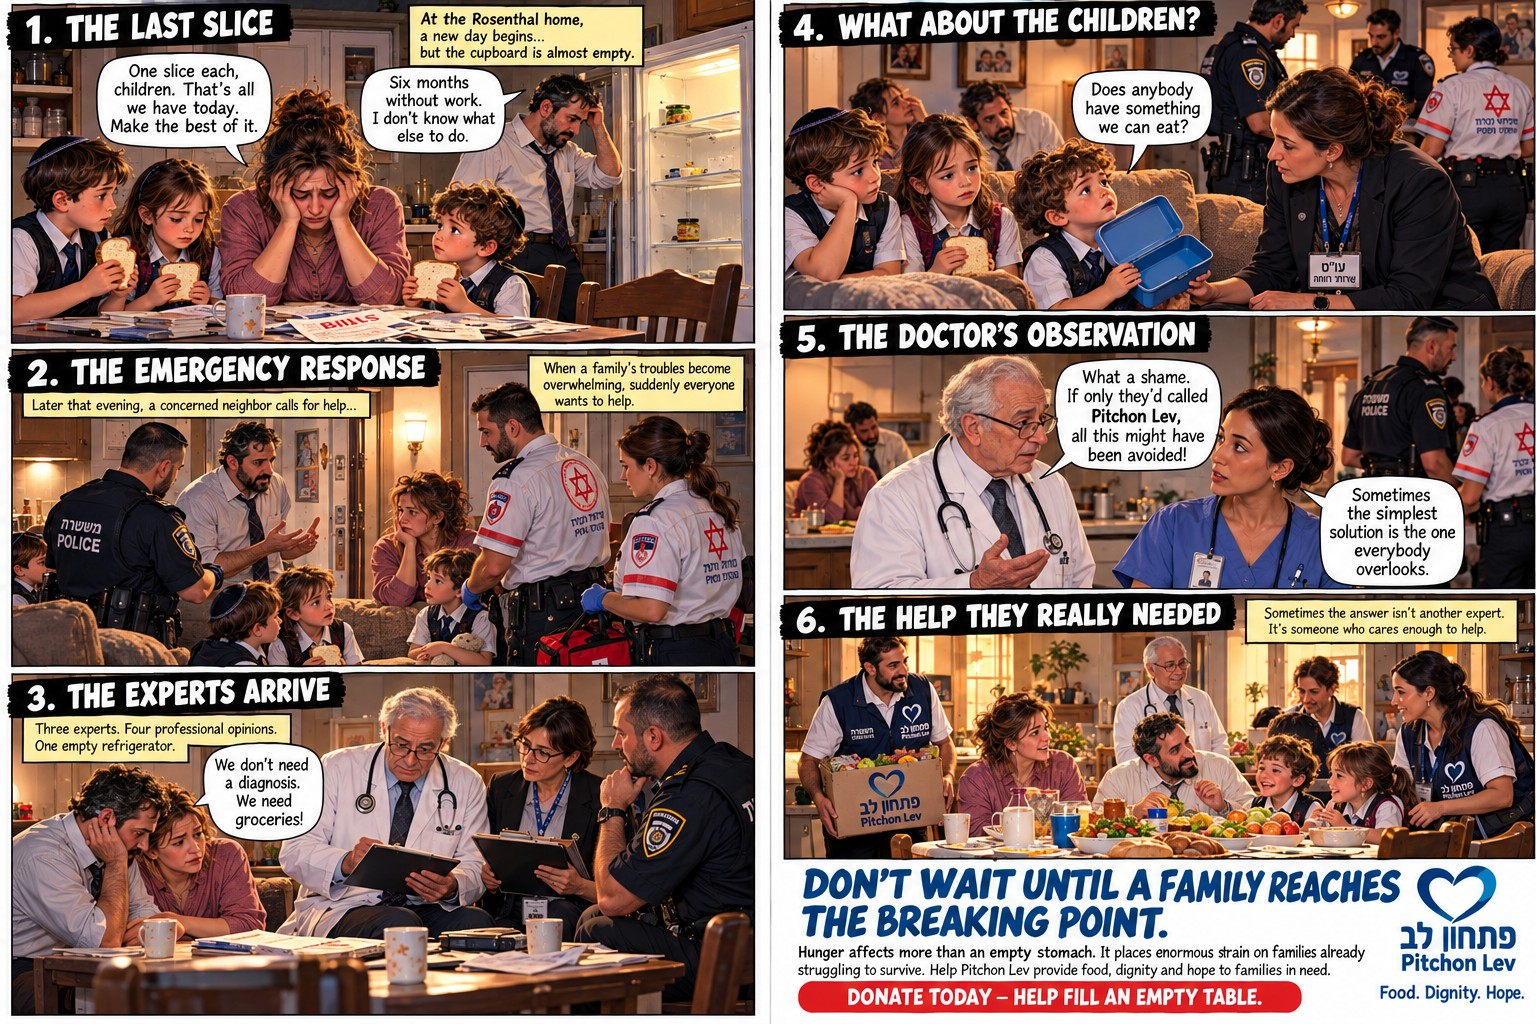
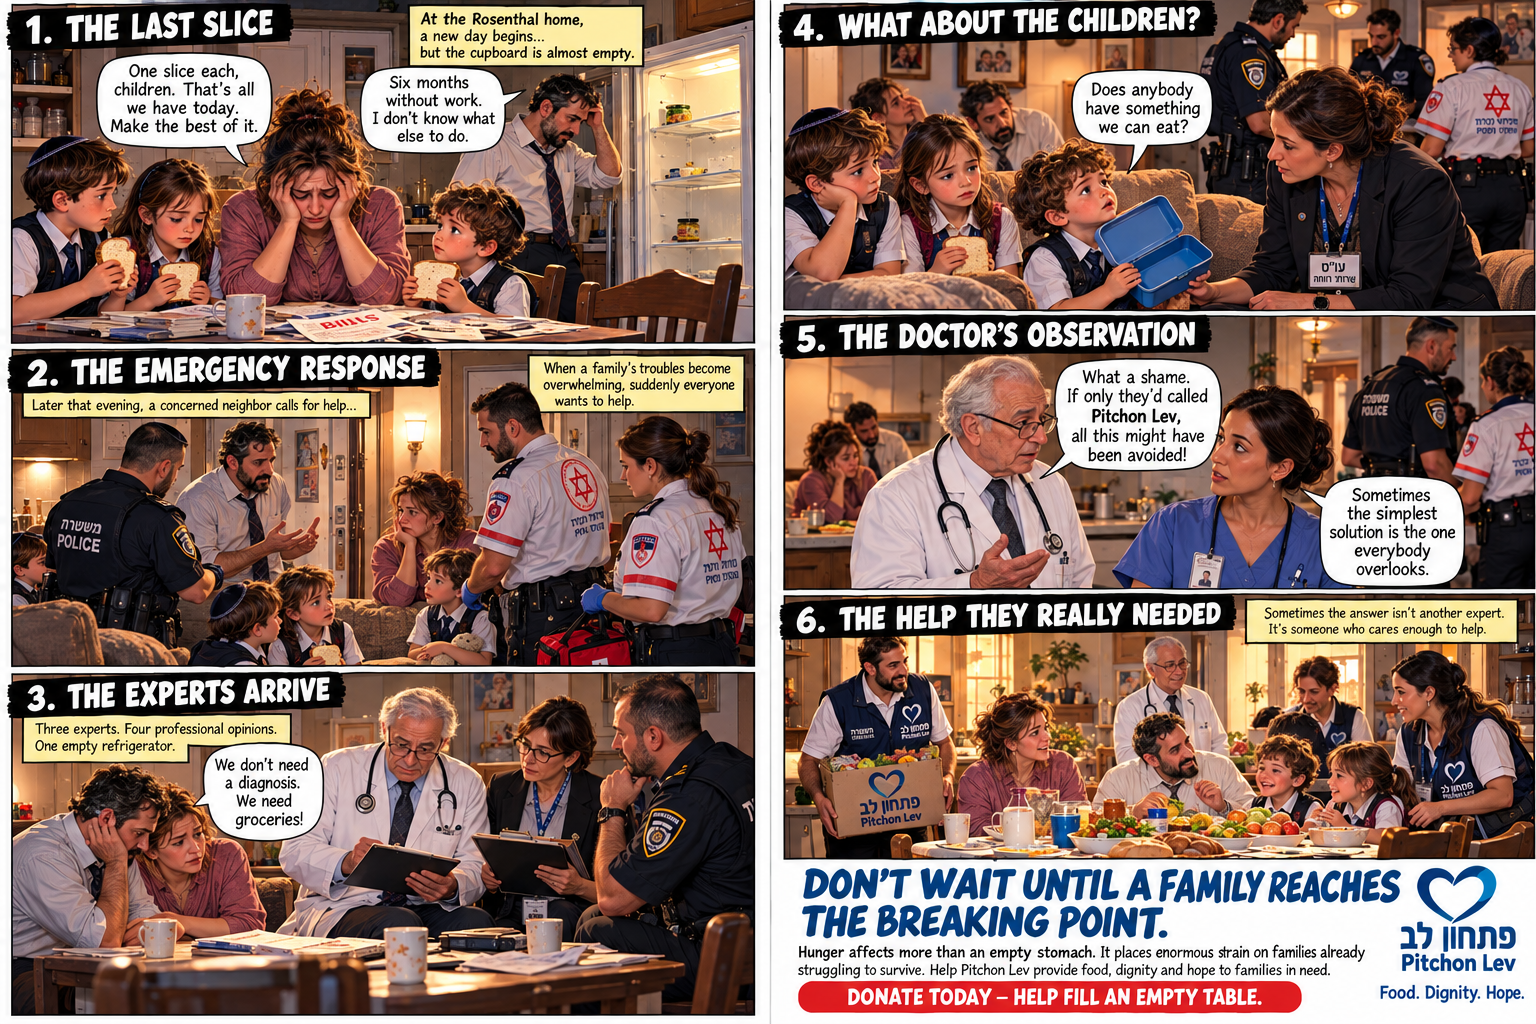
Publish remaining fundraising comics and Hooks in Eden services gallery

Changed region(s): [[0.6562, 0.9688, 0.8125, 1.0], [0.5938, 0.9688, 0.625, 1.0], [0.5625, 0.7812, 0.5938, 0.8125]]

diff --git a/fundraising-portfolio.html b/fundraising-portfolio.html
@@ -1,1 +1,1 @@
-<!doctype html><html lang="en"><head><meta charset="utf-8"><meta name="viewport" content="width=device-width,initial-scale=1"><title>Fundraising Portfolio — Andrew Abeles</title><link rel="stylesheet" href="sections.css"></head><body><header><nav aria-label="Portfolio navigation"><a href="index.html">Andrew Abeles · Portfolio</a><a href="fundraising-portfolio.html">Fundraising</a><a href="project_pages/educational-comics.html">Education</a><a href="biography.html">Biography</a><a href="testimonials.html">Testimonials</a></nav></header><main><div class="section-intro"><img src="assets/sections/fundraising.svg" alt=""><div><h1>Fundraising Portfolio</h1></div></div><div class="project-list"><a class="portfolio-item" href="assets/projects/united-hatzalah-saving-lives-sanctifying-gods-name.png"><img src="assets/projects/united-hatzalah-saving-lives-sanctifying-gods-name.png" alt="United Hatzalah — Saving Lives, Sanctifying God’s Name" loading="lazy"><strong>United Hatzalah — Saving Lives, Sanctifying God’s Name</strong><span>View project →</span></a><a class="portfolio-item" href="project_pages/carmei-hair.html"><img src="assets/thumbs/representative/carmei-hair-charity.jpg" alt="Carmei Hair" loading="lazy"><strong>Carmei Hair</strong><span>View project →</span></a><a class="portfolio-item" href="project_pages/tikva-layeled.html"><img src="assets/thumbs/representative/tikva-layeled-screen.jpg" alt="Tikva Layeled" loading="lazy"><strong>Tikva Layeled</strong><span>View project →</span></a><a class="portfolio-item" href="assets/projects/Lev_Malka.pdf"><img src="assets/thumbs/representative/lev-malka.jpg" alt="Lev Malka" loading="lazy"><strong>Lev Malka</strong><span>View project →</span></a><a class="portfolio-item" href="fundraising/pitchon-lev/rosenthal-weddings.png"><img src="fundraising/pitchon-lev/rosenthal-weddings.png" alt="Making It Through Another Day" loading="lazy"><strong>Making It Through Another Day</strong><span>View project →</span></a><a class="portfolio-item" href="fundraising/pitchon-lev/rosenthal-struggle.png"><img src="fundraising/pitchon-lev/rosenthal-struggle.png" alt="A Day of Struggle" loading="lazy"><strong>A Day of Struggle</strong><span>View project →</span></a><a class="portfolio-item" href="fundraising/pitchon-lev/rosenthal-emergency.png"><img src="fundraising/pitchon-lev/rosenthal-emergency.png" alt="The Help They Really Needed" loading="lazy"><strong>The Help They Really Needed</strong><span>View project →</span></a></div><p>Pitchon Lev comics are independent portfolio concepts, not commissioned or endorsed by Pitchon Lev.</p></main><footer><a href="mailto:nabeles666@gmail.com">Contact Andrew Abeles</a></footer></body></html>
+<!doctype html><html lang="en"><head><meta charset="utf-8"><meta name="viewport" content="width=device-width,initial-scale=1"><title>Fundraising Portfolio — Andrew Abeles</title><link rel="stylesheet" href="sections.css"></head><body><header><nav aria-label="Portfolio navigation"><a href="index.html">Andrew Abeles · Portfolio</a><a href="fundraising-portfolio.html">Fundraising</a><a href="project_pages/educational-comics.html">Education</a><a href="biography.html">Biography</a><a href="testimonials.html">Testimonials</a></nav></header><main><div class="section-intro"><img src="assets/sections/fundraising.svg" alt=""><div><h1>Fundraising Portfolio</h1></div></div><p><a href="gallery/fundraising/">View the four fundraising presentations and comics →</a></p><div class="project-list"><a class="portfolio-item" href="assets/projects/united-hatzalah-saving-lives-sanctifying-gods-name.png"><img src="assets/projects/united-hatzalah-saving-lives-sanctifying-gods-name.png" alt="United Hatzalah — Saving Lives, Sanctifying God’s Name" loading="lazy"><strong>United Hatzalah — Saving Lives, Sanctifying God’s Name</strong><span>View project →</span></a><a class="portfolio-item" href="project_pages/carmei-hair.html"><img src="assets/thumbs/representative/carmei-hair-charity.jpg" alt="Carmei Hair" loading="lazy"><strong>Carmei Hair</strong><span>View project →</span></a><a class="portfolio-item" href="project_pages/tikva-layeled.html"><img src="assets/thumbs/representative/tikva-layeled-screen.jpg" alt="Tikva Layeled" loading="lazy"><strong>Tikva Layeled</strong><span>View project →</span></a><a class="portfolio-item" href="assets/projects/Lev_Malka.pdf"><img src="assets/thumbs/representative/lev-malka.jpg" alt="Lev Malka" loading="lazy"><strong>Lev Malka</strong><span>View project →</span></a><a class="portfolio-item" href="fundraising/pitchon-lev/rosenthal-weddings.png"><img src="fundraising/pitchon-lev/rosenthal-weddings.png" alt="Making It Through Another Day" loading="lazy"><strong>Making It Through Another Day</strong><span>View project →</span></a><a class="portfolio-item" href="fundraising/pitchon-lev/rosenthal-struggle.png"><img src="fundraising/pitchon-lev/rosenthal-struggle.png" alt="A Day of Struggle" loading="lazy"><strong>A Day of Struggle</strong><span>View project →</span></a><a class="portfolio-item" href="fundraising/pitchon-lev/rosenthal-emergency.png"><img src="fundraising/pitchon-lev/rosenthal-emergency.png" alt="The Help They Really Needed" loading="lazy"><strong>The Help They Really Needed</strong><span>View project →</span></a><a class="portfolio-item" href="gallery/fundraising/#latet"><img src="assets/projects/latet-proposal.png" alt="Latet — Fundraising Proposal" loading="lazy"><strong>Latet — Fundraising Proposal</strong><span>View project →</span></a><a class="portfolio-item" href="gallery/fundraising/#save-a-childs-heart"><img src="assets/projects/save-a-childs-heart.png" alt="Save a Child’s Heart — Fundraising Proposal" loading="lazy"><strong>Save a Child’s Heart — Fundraising Proposal</strong><span>View project →</span></a><a class="portfolio-item" href="gallery/fundraising/#united-hatzalah-trilogy"><img src="assets/projects/united-hatzalah-trilogy.png" alt="United Hatzalah — Fundraising Comic Trilogy" loading="lazy"><strong>United Hatzalah — Fundraising Comic Trilogy</strong><span>View project →</span></a></div><p>Pitchon Lev comics are independent portfolio concepts, not commissioned or endorsed by Pitchon Lev.</p></main><footer><a href="mailto:nabeles666@gmail.com">Contact Andrew Abeles</a></footer></body></html>

diff --git a/index.html b/index.html
@@ -47,7 +47,7 @@
 <a class="section-card" href="humor-satire.html"><img alt="" src="assets/sections/humor.svg"/><strong>Humor and Satire</strong><span aria-hidden="true">→</span></a>
 <a class="section-card" href="stop-antisemitism.html"><img alt="" src="assets/sections/holocaust.svg"/><strong>Anti-Semitism and Holocaust</strong><span aria-hidden="true">→</span></a>
 <a class="section-card" href="testimonials.html"><img alt="" src="assets/sections/testimonials.svg"/><strong>Testimonials</strong><span aria-hidden="true">→</span></a>
-<a class="section-card" href="fundraising/#packages"><img alt="" src="assets/sections/services.svg"/><strong>Services</strong><span aria-hidden="true">→</span></a>
+<a class="section-card" href="gallery/services/"><img alt="" src="assets/sections/services.svg"/><strong>Services</strong><span aria-hidden="true">→</span></a>
 </nav><section aria-label="Experience and working style" class="working-summary"><article><img alt="" src="assets/sections/experience.svg"/><h2>Experience</h2><p>Decades of creating high-conversion advertising, fundraising and educational materials.</p></article><article><img alt="" src="assets/sections/expertise.svg"/><h2>Expertise</h2><p>Compelling copy, powerful visuals, strategic campaigns, storytelling and content development.</p></article><article><img alt="" src="assets/sections/comics.svg"/><h2>Selected Projects</h2><p>Comics, biographies, educational material, fundraising campaigns, websites, videos and newsletters.</p></article><article><img alt="" src="assets/sections/process.svg"/><h2>How I Work</h2><p>Listen. Understand. Create. Refine. Deliver—with a focus on your goals and your audience.</p></article><article><img alt="" src="assets/sections/services.svg"/><h2>Tools</h2><p>AI image generation, design, photo editing, video, audio, and decades of real-world marketing experience.</p></article><article><img alt="" src="assets/sections/seeking.svg"/><h2>Seeking</h2><p>Great people who appreciate the unique toolset I bring to the table: art, excellence and persuasion.</p></article></section><section aria-labelledby="selected-projects-title" class="selected-projects" id="portfolio">
 <div class="selected-heading-row">
 <h1 id="selected-projects-title"><span></span>Selected Projects<span></span></h1>
@@ -112,6 +112,22 @@
 <a class="selected-card" data-category="advertising company fundraising" href="project_pages/carmei-hair.html" id="project-carmei-hair">
 <img alt="Carmei Hair" src="assets/thumbs/representative/carmei-hair-charity.jpg"/>
 <strong>Carmei Hair</strong><em>View Project</em>
+</a>
+<a class="selected-card" data-category="fundraising comics" href="gallery/fundraising/#latet" id="project-latet">
+<img alt="Latet — Fundraising Proposal" src="assets/projects/latet-proposal.png"/>
+<strong>Latet — Fundraising Proposal</strong><em>View Full Project</em>
+</a>
+<a class="selected-card" data-category="fundraising comics" href="gallery/fundraising/#save-a-childs-heart" id="project-save-a-childs-heart">
+<img alt="Save a Child’s Heart — Fundraising Proposal" src="assets/projects/save-a-childs-heart.png"/>
+<strong>Save a Child’s Heart — Fundraising Proposal</strong><em>View Full Project</em>
+</a>
+<a class="selected-card" data-category="fundraising comics" href="gallery/fundraising/#united-hatzalah-trilogy" id="project-united-hatzalah-trilogy">
+<img alt="United Hatzalah — Fundraising Comic Trilogy" src="assets/projects/united-hatzalah-trilogy.png"/>
+<strong>United Hatzalah — Fundraising Comic Trilogy</strong><em>View Full Project</em>
+</a>
+<a class="selected-card" data-category="service advertising comics" href="gallery/services/#hooks-in-eden" id="project-hooks-in-eden">
+<img alt="Hooks in Eden — The Circumciser’s Call" src="assets/projects/hooks-in-eden.png"/>
+<strong>Hooks in Eden — The Circumciser’s Call</strong><em>View Full Project</em>
 </a>
 <a class="selected-card" data-category="fundraising comics" href="fundraising/pitchon-lev/" id="project-pitchon-lev">
 <img alt="Pitchon Lev — The Rosenthal Family: three fundraising comic concepts" src="fundraising/pitchon-lev/rosenthal-weddings.png"/>

diff --git a/gallery/fundraising/index.html b/gallery/fundraising/index.html
@@ -1,0 +1,11 @@
+<!doctype html>
+<html lang="en"><head><meta charset="utf-8"><meta name="viewport" content="width=device-width,initial-scale=1">
+<title>Fundraising Comics — Andrew Abeles</title><meta name="description" content="Four fundraising presentations and comic concepts by Andrew Abeles. Independent portfolio work; not commissioned or endorsed by the featured organizations.">
+<link rel="canonical" href="https://nabeles666-ui.github.io/andrew-abeles-portfolio/gallery/fundraising/">
+<link rel="stylesheet" href="../../sections.css">
+<style>article{margin:32px 0 52px;padding:clamp(12px,3vw,28px);background:white;border:1px solid #c5d3dd;border-radius:8px;scroll-margin-top:20px}article img{display:block;width:100%;height:auto}article h2{margin-top:0}.gallery-index{display:flex;flex-wrap:wrap;gap:10px 24px;padding-left:22px}.other-services{margin-top:40px}</style></head>
+<body><header><nav aria-label="Portfolio navigation"><a href="../../index.html">Andrew Abeles · Portfolio</a><a href="../../fundraising-portfolio.html">Fundraising</a><a href="../services/">Services</a><a href="../../fundraising/#packages">Campaign Packages</a></nav></header>
+<main><h1>Fundraising Comics</h1><p>Four fundraising presentations and comic concepts by Andrew Abeles. Independent portfolio work; not commissioned or endorsed by the featured organizations.</p>
+<ul class="gallery-index"><li><a href="#pitchon-lev">Pitchon Lev — From Empty Cupboards to Hope</a></li><li><a href="#latet">Latet — Fundraising Proposal</a></li><li><a href="#save-a-childs-heart">Save a Child’s Heart — Fundraising Proposal</a></li><li><a href="#united-hatzalah-trilogy">United Hatzalah — Fundraising Comic Trilogy</a></li></ul>
+<article id="pitchon-lev"><h2>Pitchon Lev — From Empty Cupboards to Hope</h2><p><a href="../../fundraising/pitchon-lev/rosenthal-emergency.png">Open full-resolution image →</a></p><a href="../../fundraising/pitchon-lev/rosenthal-emergency.png" aria-label="Open Pitchon Lev — From Empty Cupboards to Hope at full resolution"><img src="../../fundraising/pitchon-lev/rosenthal-emergency.png" alt="Six-panel fundraising comic showing the Rosenthal family’s food emergency and timely help." width="1536" height="1024" loading="lazy"></a></article><article id="latet"><h2>Latet — Fundraising Proposal</h2><p><a href="../../assets/projects/latet-proposal.png">Open full-resolution image →</a></p><a href="../../assets/projects/latet-proposal.png" aria-label="Open Latet — Fundraising Proposal at full resolution"><img src="../../assets/projects/latet-proposal.png" alt="Three-part Latet presentation with a cover letter, Everybody Out sales comic, and fundraising sample." width="1536" height="1024" loading="lazy"></a></article><article id="save-a-childs-heart"><h2>Save a Child’s Heart — Fundraising Proposal</h2><p><a href="../../assets/projects/save-a-childs-heart.png">Open full-resolution image →</a></p><a href="../../assets/projects/save-a-childs-heart.png" aria-label="Open Save a Child’s Heart — Fundraising Proposal at full resolution"><img src="../../assets/projects/save-a-childs-heart.png" alt="Three-part Save a Child’s Heart presentation with a cover letter, sales comic, and fundraising sample." width="1536" height="1024" loading="lazy"></a></article><article id="united-hatzalah-trilogy"><h2>United Hatzalah — Fundraising Comic Trilogy</h2><p><a href="../../assets/projects/united-hatzalah-trilogy.png">Open full-resolution image →</a></p><a href="../../assets/projects/united-hatzalah-trilogy.png" aria-label="Open United Hatzalah — Fundraising Comic Trilogy at full resolution"><img src="../../assets/projects/united-hatzalah-trilogy.png" alt="Three-part United Hatzalah presentation with a cover letter, sales comic, and fundraising sample." width="1536" height="1024" loading="lazy"></a></article>
+</main><footer><a href="mailto:nabeles666@gmail.com">Contact Andrew Abeles</a> · <a href="../../index.html">Back to Portfolio</a></footer></body></html>

diff --git a/gallery/services/index.html b/gallery/services/index.html
@@ -1,0 +1,11 @@
+<!doctype html>
+<html lang="en"><head><meta charset="utf-8"><meta name="viewport" content="width=device-width,initial-scale=1">
+<title>Services Comics — Andrew Abeles</title><meta name="description" content="Service advertising and visual storytelling by Andrew Abeles.">
+<link rel="canonical" href="https://nabeles666-ui.github.io/andrew-abeles-portfolio/gallery/services/">
+<link rel="stylesheet" href="../../sections.css">
+<style>article{margin:32px 0 52px;padding:clamp(12px,3vw,28px);background:white;border:1px solid #c5d3dd;border-radius:8px;scroll-margin-top:20px}article img{display:block;width:100%;height:auto}article h2{margin-top:0}.gallery-index{display:flex;flex-wrap:wrap;gap:10px 24px;padding-left:22px}.other-services{margin-top:40px}</style></head>
+<body><header><nav aria-label="Portfolio navigation"><a href="../../index.html">Andrew Abeles · Portfolio</a><a href="../../fundraising-portfolio.html">Fundraising</a><a href="../services/">Services</a><a href="../../fundraising/#packages">Campaign Packages</a></nav></header>
+<main><h1>Services Comics</h1><p>Service advertising and visual storytelling by Andrew Abeles.</p>
+<ul class="gallery-index"><li><a href="#hooks-in-eden">Hooks in Eden — The Circumciser’s Call</a></li></ul>
+<article id="hooks-in-eden"><h2>Hooks in Eden — The Circumciser’s Call</h2><p><a href="../../assets/projects/hooks-in-eden.png">Open full-resolution image →</a></p><a href="../../assets/projects/hooks-in-eden.png" aria-label="Open Hooks in Eden — The Circumciser’s Call at full resolution"><img src="../../assets/projects/hooks-in-eden.png" alt="Illustrated Eden and modern temptations comic ending with the call to the circumciser." width="1024" height="1536" loading="lazy"></a></article>
+<section class="other-services"><h2>Explore more services</h2><p><a href="../../fundraising/#packages">Fundraising Campaign Packages →</a></p><p><a href="../../project_pages/creative-director.html">Creative Direction →</a> · <a href="../../project_pages/imagineer.html">Imagineer →</a></p></section></main><footer><a href="mailto:nabeles666@gmail.com">Contact Andrew Abeles</a> · <a href="../../index.html">Back to Portfolio</a></footer></body></html>

diff --git a/fundraising/index.html b/fundraising/index.html
@@ -12,7 +12,7 @@
 </head>
 <body>
 <header class="site-head"><a class="wordmark" href="../">Andrew Abeles <span>— Imagineer</span></a><a class="head-contact" href="mailto:nabeles666@gmail.com">Let’s talk <b>↗</b></a></header>
-<nav class="portfolio-return"><a href="../fundraising-portfolio.html">View Fundraising Portfolio →</a> · <a href="../testimonials.html">Testimonials</a></nav>
+<nav class="portfolio-return"><a href="../fundraising-portfolio.html">View Fundraising Portfolio →</a> · <a href="../gallery/fundraising/">Fundraising Comics</a> · <a href="../gallery/services/">Services Comics</a> · <a href="../testimonials.html">Testimonials</a></nav>
 <main>
   <section class="hero">
     <div class="hero-copy"><p class="overline">Selected portfolio · Fundraising</p><h1>Stories that<br><em>move people</em><br>to act.</h1><p class="intro">Selected fundraising and donor-communications work demonstrating direct-response writing, human-interest storytelling, campaign development, and visual communication.</p></div>
